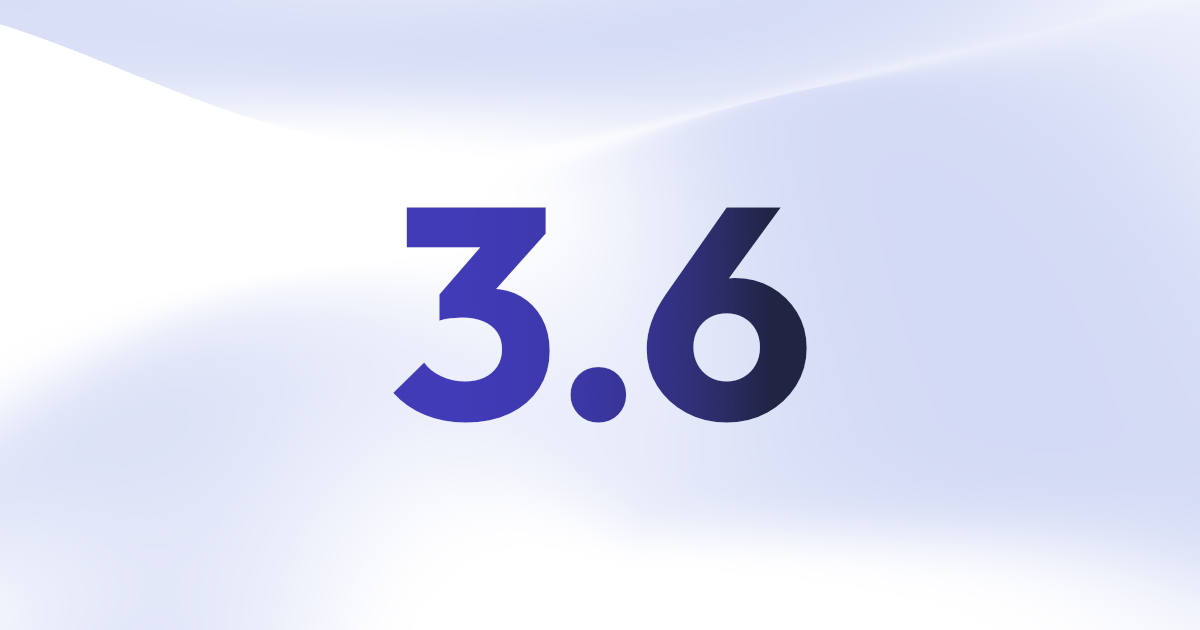
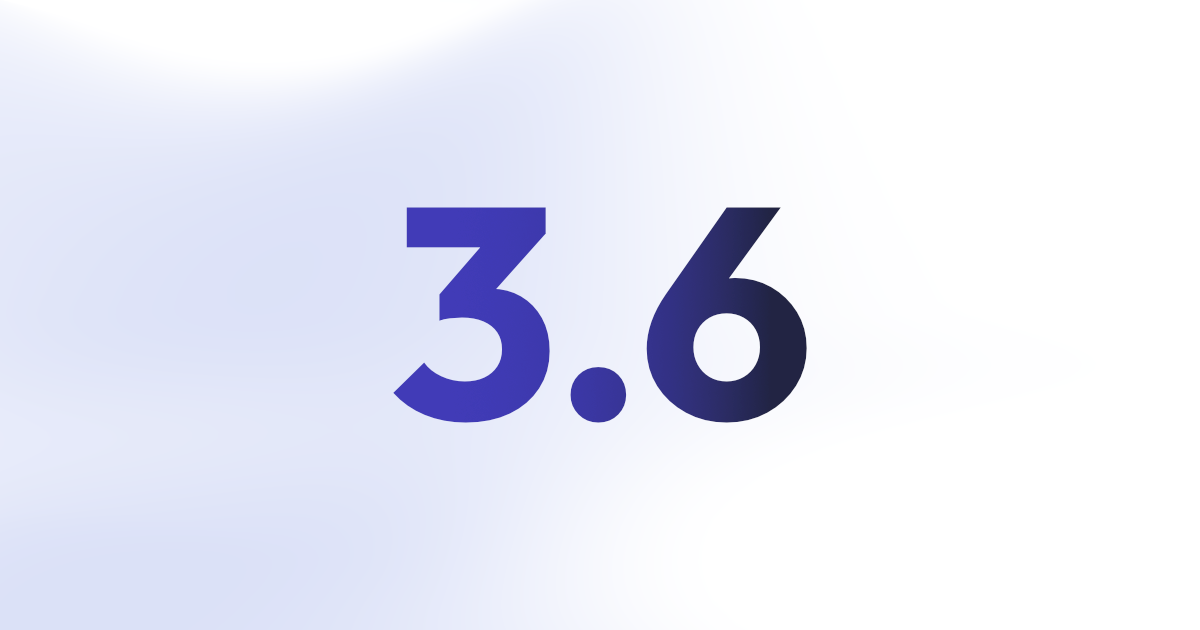
blog: publish v3.6 blog post

diff --git a/src/styles/out.css b/src/styles/out.css
@@ -385,8 +385,16 @@ summary {
   border-color: #7073de1a;
 }
 
+.bc-indigo-6\/25 {
+  border-color: #7073de40;
+}
+
 .bc-indigo-7\/10 {
   border-color: #4d4fbb1a;
+}
+
+.bc-indigo-7\/25 {
+  border-color: #4d4fbb40;
 }
 
 .bc-indigo-8 {
@@ -583,6 +591,10 @@ summary {
 
 .bg-indigo-3\/50 {
   background-color: #b6b7ee80;
+}
+
+.bg-indigo-6\/25 {
+  background-color: #7073de40;
 }
 
 .bg-indigo-8 {

diff --git a/src/utils/blog.ts b/src/utils/blog.ts
@@ -23,8 +23,9 @@ const blogSlugs = [
   "yummacss-3.4.0",
   "yummacss-3.5.0",
   "hello-yumma-ui",
+  "yummacss-3.6.0",
   // not ready yet
-  // "yummacss-3.6.0",
+  // "yummacss-3.7.0",
   // "yummacss-4.0.0",
 ];
 